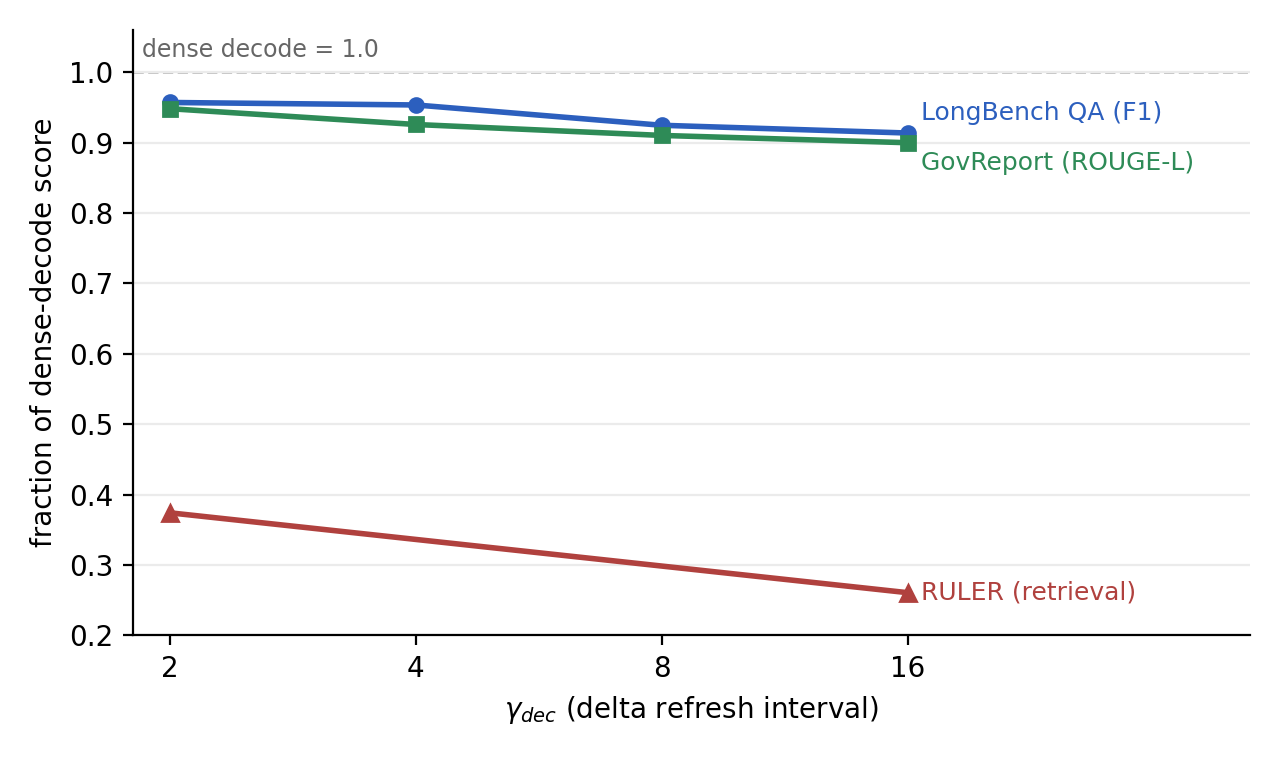
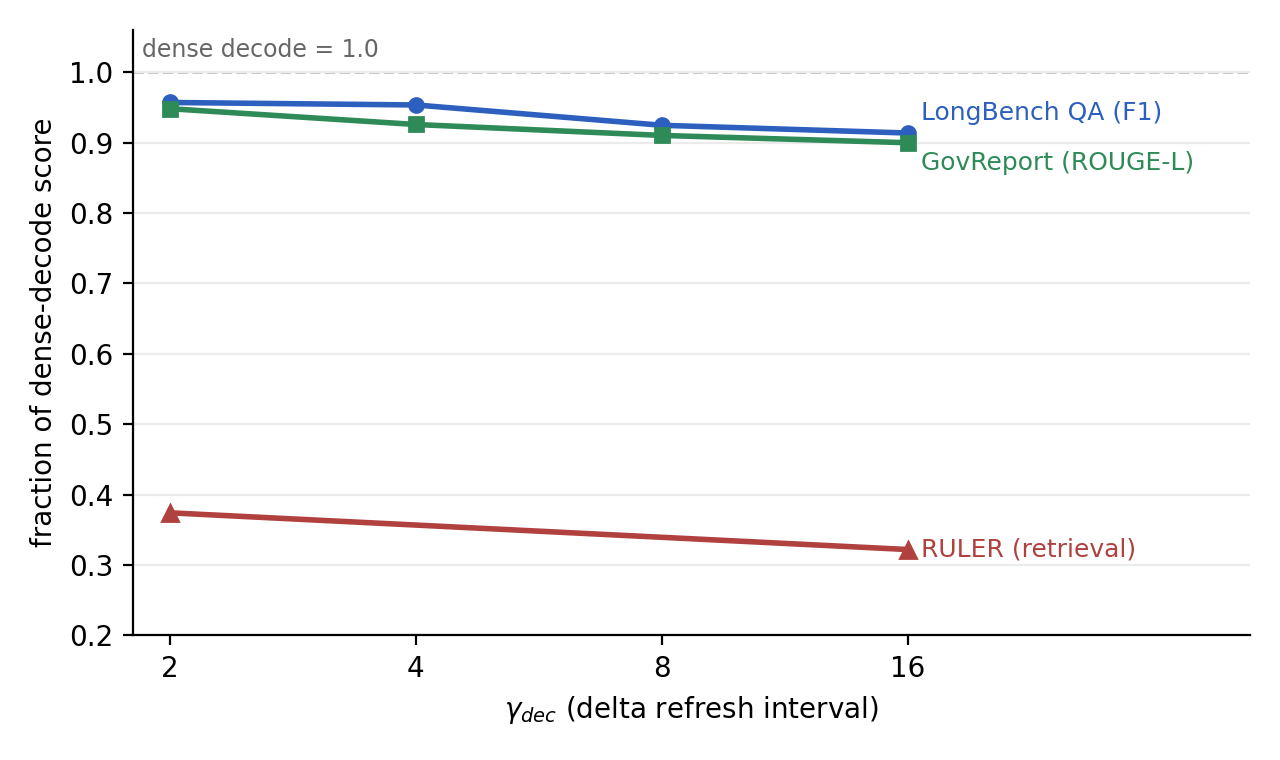
integrity audit fixes: retract asymmetric-timing speedups, correct RULER arm value + figure, gradscale paired stats to pipeline eval, precision fixes
- I1: tok/s + wall-speedup columns retracted (run predated the fair-timing
  fix; no CUDA sync) — acceptance metrics unaffected and retained
- E: RULER gamma_dec=16 = 24.7 (base weights; 20.0 was the CE-ft arm);
  figure regenerated with the corrected point; pure-sparse mean 0.4166
  (was zero-padded 0.4170)
- K: paired stats now the PIPELINE-eval values (dense-eval kept, labeled);
  achieved gsqrt anchor ratio 1.10 not 1.00
- A3 tax 0.0839; C2 sem 0.0031; acceptance range +15.7-18.2
- specdec_eval: cuda.synchronize before stopping draft/verify timers;
  dead trailing setattr removed

Changed region(s): [[0.1562, 0.6658, 0.9062, 0.8171]]

diff --git a/eval/specdec_eval.py b/eval/specdec_eval.py
@@ -146,6 +146,7 @@ def spec_generate(model, tokenizer, prompt, draft_mode, block, max_new):
             proposals.append(nxt)
             cur = [nxt]
         # cache now holds draft-grade KV for pending + proposals[:-1]
+        torch.cuda.synchronize()  # timers must include the queued GPU work
         stats["t_draft"] += time.monotonic() - t0
 
         # ---- verify: crop to dense-grade, one rectangle block ----
@@ -155,6 +156,7 @@ def spec_generate(model, tokenizer, prompt, draft_mode, block, max_new):
         blk = pending + proposals
         logits, cache = _forward_tokens(model, blk, cache)
         stats["verify_calls"] += 1
+        torch.cuda.synchronize()  # timers must include the queued GPU work
         stats["t_verify"] += time.monotonic() - t0
         # dense choice at proposals[i]'s slot = argmax after its predecessor
         m = len(pending)
@@ -182,7 +184,6 @@ def spec_generate(model, tokenizer, prompt, draft_mode, block, max_new):
         if not pending:
             break
 
-    setattr(model, "no_lm_head", True)
     return generated, stats
 
 

diff --git a/docs/stats_2026-07-15.md b/docs/stats_2026-07-15.md
@@ -54,7 +54,7 @@ Paired diffs, 32K-trained arms, pipeline eval:
 | arm | tax |
 |---|---|
 | base | 0.0815 |
-| dense-trained 8K / 32K | 0.0838 / 0.0858 |
+| dense-trained 8K / 32K | 0.0839 / 0.0858 |
 | detach-trained 8K / 32K | 0.0687 / 0.0597 |
 | delta-trained 8K / 32K | 0.0574 / 0.0437 |
 
@@ -165,10 +165,11 @@ Full decode curve, means:
 | γ_dec=4 | 0.4329 |
 | γ_dec=8 | 0.4198 |
 | γ_dec=16 | 0.4148 |
-| pure sparse | 0.4170 |
+| pure sparse | 0.4166 |
 
 RULER 32K reference for the same decode ladder (already sent): dense 76.7,
-γ_dec=1 78.0, γ_dec=2 28.7, γ_dec=16 20.0, pure sparse ~20.
+γ_dec=1 78.0, γ_dec=2 28.7, γ_dec=16 24.7 (base weights; the CE-ft arm
+scored 20.0), pure sparse ~20.
 
 ---
 
@@ -275,20 +276,27 @@ kernel-numerics depth.
 
 ### I1. Base-model acceptance grid, GovReport (run `srokwtvo`, n=20, 512 new tokens)
 
-| draft | block | acceptance | accepted/verify | full-block rate | tok/s spec | tok/s dense | wall speedup |
-|---|---|---|---|---|---|---|---|
-| sparse | 2 | 0.7670 | 1.53 | 0.704 | 29.98 | 24.12 | 1.24× |
-| sparse | 4 | 0.6317 | 2.53 | 0.501 | 24.65 | 23.71 | 1.04× |
-| sparse | 8 | 0.4335 | 3.47 | 0.270 | 16.95 | 23.08 | 0.73× |
-| delta | 2 | **0.9429** | 1.89 | 0.890 | 33.13 | 24.10 | **1.37×** |
-| delta | 4 | 0.8140 | 3.26 | 0.649 | 29.02 | 24.30 | 1.19× |
-| delta | 8 | 0.5909 | 4.73 | 0.334 | 21.35 | 23.08 | 0.93× |
+| draft | block | acceptance | accepted/verify | full-block rate |
+|---|---|---|---|---|
+| sparse | 2 | 0.7670 | 1.53 | 0.704 |
+| sparse | 4 | 0.6317 | 2.53 | 0.501 |
+| sparse | 8 | 0.4335 | 3.47 | 0.270 |
+| delta | 2 | **0.9429** | 1.89 | 0.890 |
+| delta | 4 | 0.8140 | 3.26 | 0.649 |
+| delta | 8 | 0.5909 | 4.73 | 0.334 |
 
-- tok/s includes prefill on BOTH sides, same checked prompts (fair timing).
+- **Wall-clock speedup claims RETRACTED pending rerun** (integrity audit
+  2026-07-15 evening): run srokwtvo started 59s before the fair-timing fix
+  landed, so its spec tok/s excluded prefill while dense tok/s included it,
+  and neither side CUDA-synchronized its timers — the previously-quoted
+  1.24–1.37× numbers are inflated by construction and are NOT to be quoted.
+  Acceptance/accepted-per-verify/full-block above are timing-independent
+  and stand. A clean timing rerun (synced timers, fair populations) is
+  queued.
 - parity_prefix_min per config: 75–118 (all divergences at kernel-numerics
   depth; output is dense-greedy by construction).
-- Delta draft beats the sparse draft by +16–18 acceptance points at every
-  block size — the delta correction's first large, unambiguous win, in
+- Delta draft beats the sparse draft by +15.7–18.2 acceptance points at
+  every block size — the delta correction's first large, unambiguous win, in
   exactly Jeff's speculative frame. Delta K=2 ≈ 2.9 tokens per dense call.
 - Wall-clock caveat for the writeup: our draft kernels are unoptimized
   Torch paths; acceptance is the implementation-independent quantity, the
@@ -321,8 +329,8 @@ compose.
 
 Two 32K delta arms with the correction branch's BACKWARD gradient scaled
 (forward math unchanged), same dials/chunks as train32k. Arm-faithful
-probe confirmed the intervention: achieved anchor_grad_ratio ≈ 1.00 under
-1/√γ (vs 3.41 unscaled). Eval run manually on the held box during the
+probe confirmed the intervention: achieved anchor_grad_ratio ≈ 1.10 under
+1/√γ (vs 3.41 unscaled; probes 1.102–1.104). Eval run manually on the held box during the
 wandb artifact outage (metrics sync unaffected); adapters rescued to
 `~/Development/delta-attention/rescue/2026-07-15/`.
 
@@ -332,9 +340,10 @@ wandb artifact outage (metrics sync unaffected); adapters rescued to
 | 1/√γ (0.125) | 10.482 | 9.906 | 0.0565 |
 | 1/γ (0.0156) | 10.538 | 9.932 | 0.0592 |
 
-Paired: gsqrt − gsinv = −0.0026 ± 0.0001 (gsqrt better); base − gsqrt =
-+0.1286 ± 0.0032; cross-run pairing to delta_32k valid via the
-deterministic chunks. Reading: damping the correction gradient hurts
+Paired (PIPELINE eval, run w2mqmov9): gsqrt − gsinv = −0.0053 ± 0.0002
+(gsqrt better); base − gsqrt = +0.1536 ± 0.0040. (Dense-eval equivalents:
+−0.0026 ± 0.0001 and +0.1286 ± 0.0032.) Cross-run pairing to delta_32k
+valid via the deterministic chunks. Reading: damping the correction gradient hurts
 MONOTONICALLY in damping strength — the anchor-gradient concentration is
 beneficial delta-specific signal, not a pathology. Interventional
 confirmation of the observational dose-response; no 1/γ backward needed.